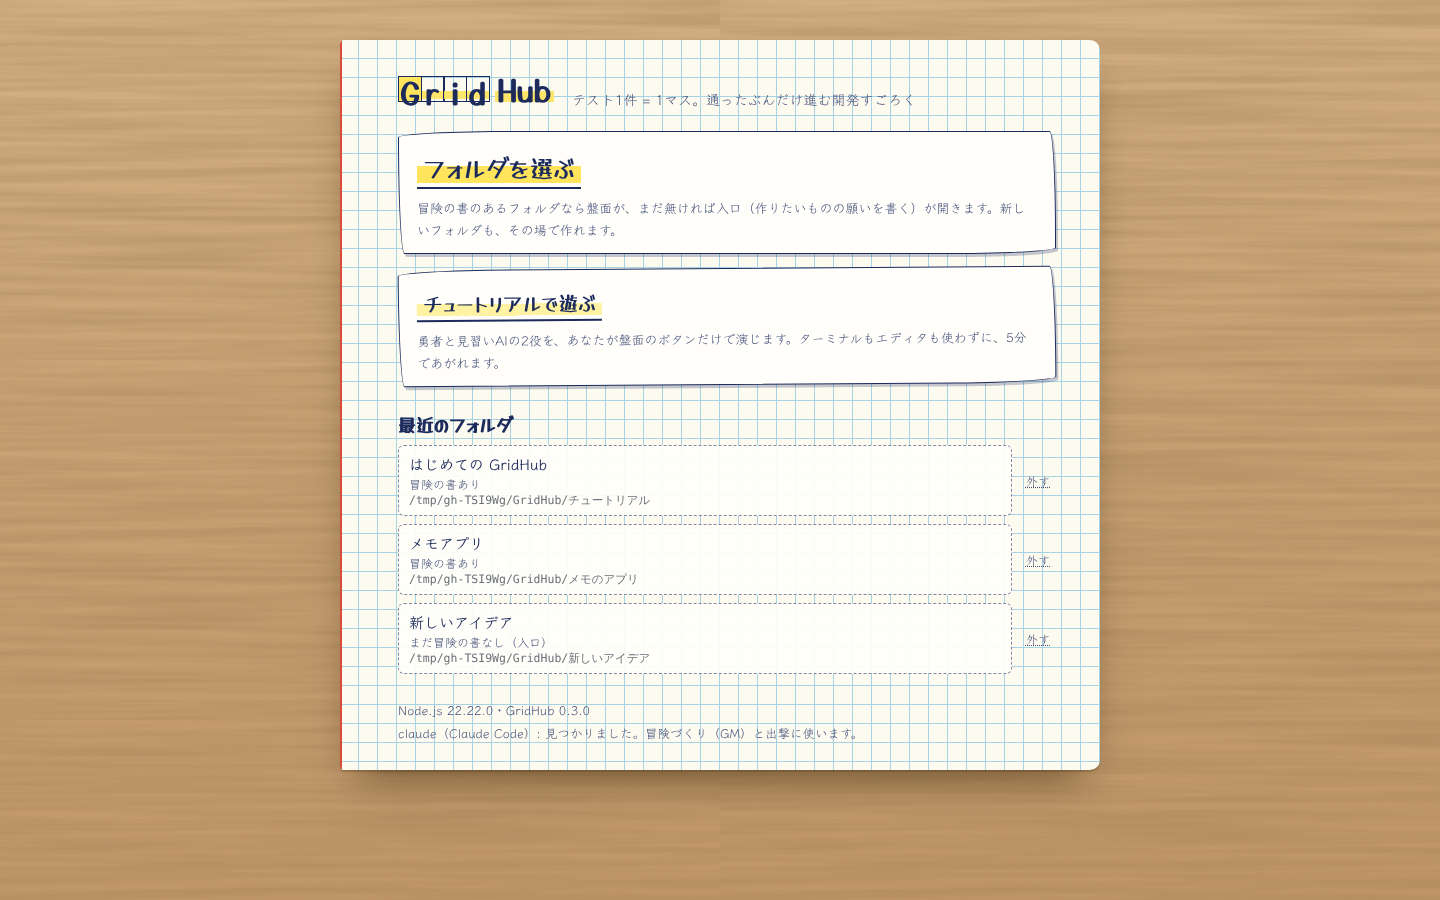
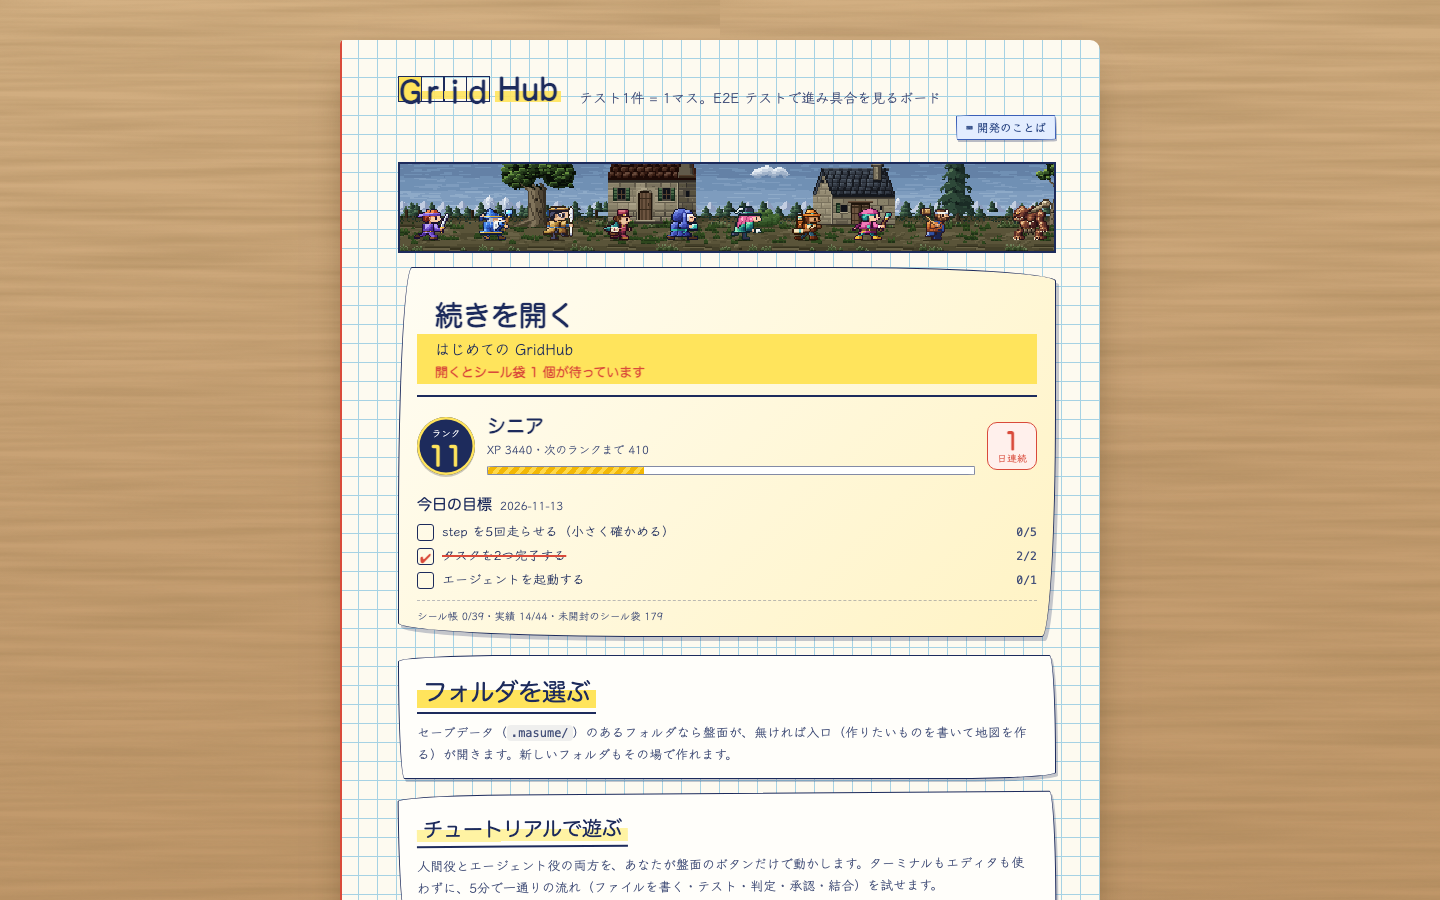
紹介ページの写真を今の画面で撮り直す（CONTRACTS §81.1）
10月に撮った写真のあと、盤面には手帳（勇者のカード・シール袋）と新しい見出しのタブが入り、
はじめの画面には仲間が走る帯（§80.19）、エンディングには次の冒険へのボタン（§80.20）が増えた。

- tools/site-shots.mjs: 盤面と手で進めるはノートの見方（?mode=note）で撮る（ページの説明は「方眼ノートの見開き」）。字は冒険のことば（ページの字と同じ）。手帳はすべて一時フォルダ（GRIDHUB_APP_HOME）で、遊ぶ人の手帳を読まない。撮る前に、おかえりのカードを閉じ、お祝い・知らせ・ランクアップ・ボス戦のカットインが消えるのを待つ
- 4枚を撮り直した（board・start・hand・ending。1440×900）
- はじめの画面の alt: 最近のフォルダは画面の下に外れたので、写っているもの（仲間が走る帯・「続きを開く」カード・ボタン）に合わせた

撮り直しは看板屋（Codex）、見直しは GM。W1〜W3 29件・pass 29。撮る前と後で、遊ぶ人の手帳のハッシュは同じ。

Changed region(s): [[0.2188, 0.0933, 0.7812, 1.0]]

diff --git a/site/index.html b/site/index.html
@@ -244,7 +244,7 @@
       <h2 id="screens-title"><span class="ph mark">画面</span></h2>
       <div class="shots">
         <figure class="photo tilt-l">
-          <img src="img/start.png" width="1440" height="900" loading="lazy" alt="はじめの画面。方眼ノートの1ページに、フォルダを選ぶ・チュートリアルで遊ぶのボタンと、最近のフォルダが並んでいる">
+          <img src="img/start.png" width="1440" height="900" loading="lazy" alt="はじめの画面。方眼ノートの1ページに、仲間が走る帯と「続きを開く」カード、フォルダを選ぶ・チュートリアルで遊ぶのボタンが並んでいる">
           <figcaption><b>はじめの画面</b>フォルダを選ぶだけで始まります。</figcaption>
         </figure>
         <figure class="photo tilt-r">
